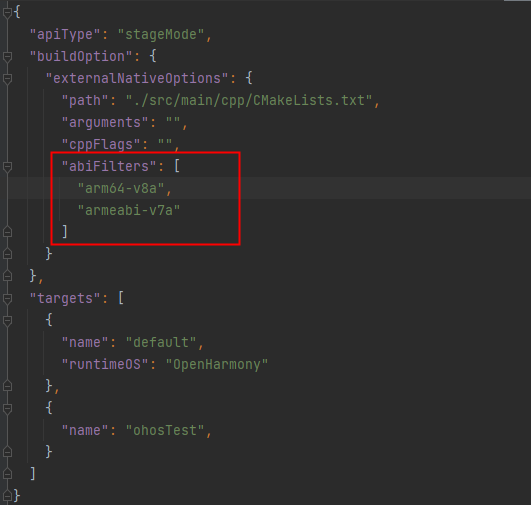
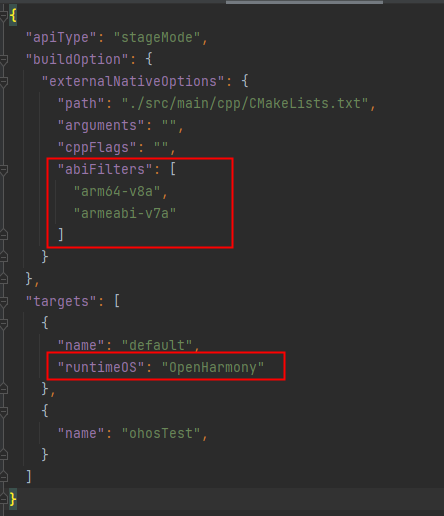
修改文档中的表述错误

diff --git a/src/vscode_plugin/docs/usedts2cpp.md b/src/vscode_plugin/docs/usedts2cpp.md
@@ -1,5 +1,9 @@
 # dts2cpp使用文档
 
+## 环境
+
+DevEco Studio: Build Version: 4.1.0.400, built on April 9, 2024
+
 ## 创建工程
 
 1.打开 DevEco Studio：
@@ -10,7 +14,7 @@
 
 ![](../images/dts2cppTest_create_new_project_finish.png)
 
-2.修改编译选项：在dts2cppTest/entry/build-profile.json5文件中buildOption中增加abiFilters字段， 并将targets字段的runtimeOS改为OpenHarmony
+2.修改编译选项：在dts2cppTest/entry/build-profile.json5文件中buildOption/externalNativeOptions中增加abiFilters字段， 并将targets字段的runtimeOS改为OpenHarmony
 
 ```
 "abiFilters": [
@@ -45,7 +49,7 @@ libhilog_ndk.z.so
 
 ```
 import abilityTest from './Ability.test';
-import testdtsabilityTest from './testdtsAbility.test'
+import testdtsabilityTest from './testdtsAbility.test';
 
 export default function testsuite() {
   abilityTest();
@@ -55,7 +59,7 @@ export default function testsuite() {
 
 ![](../images/dts2cppTest_testList.png)
 
-1.3将转换的dts文件 (testdts.d.ts) 中所有内容拷贝至 cJsonSampleTest/entry/src/main/cpp/types/libentry/index.d.ts中。
+1.3将转换的dts文件 (testdts.d.ts) 中所有内容拷贝到 dts2cppTest/entry/src/main/cpp/types/libentry/index.d.ts中（不覆盖原有内容）。
 
 2.确认生成物是否能编译
 
@@ -63,7 +67,9 @@ export default function testsuite() {
 
 ![](../images/dts2cppTest_Sign_configs.png)
 
-2.2运行testdtsAbility.test.ets中的测试集testdtsActsAbilityTest，用例成功运行，并打印出相关log。
+2.2运行dts2cppTest/entry/src/ohosTest/ets/test/testdtsAbility.test.ets中的测试集testdtsActsAbilityTest，用例成功运行，并打印出相关log。
+
+![](../images/dts2cppTest_runtest.png)
 
 ![](../images/dts2cppTest_success.png)
 
